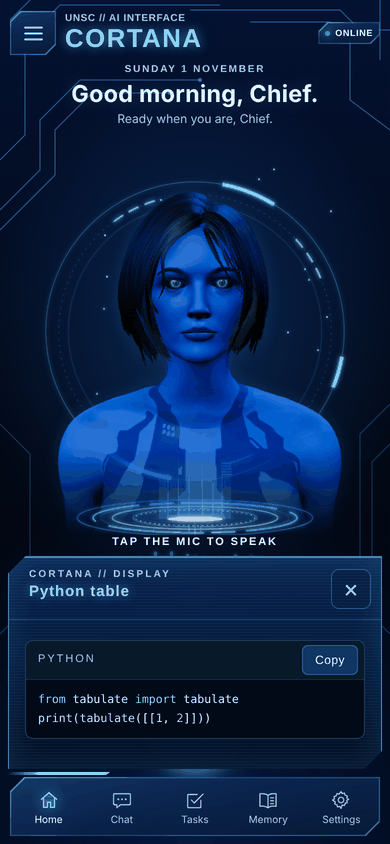
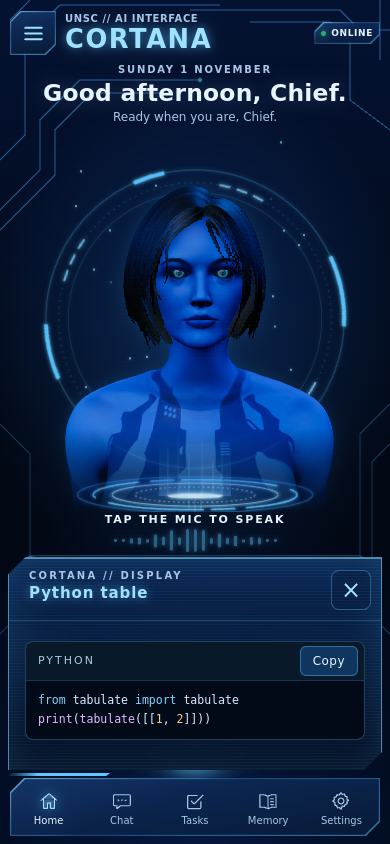
Document verified 1.5.0 release and refresh interface screenshots

diff --git a/docs/STATUS.md b/docs/STATUS.md
@@ -4,13 +4,20 @@ _Last updated: 1 November 2026._
 
 ## 1.5 current verification
 
[1 lines of base64/hex data omitted]
+
+Screenshots were refreshed from the actual interface using demo data and silent test speech. They are not evidence of subjective voice quality.
+
 Repository metadata currently reports **public**. The docs previously described it as private; visibility was not changed by this release.
 
 - Recovered source: 80 offline tests passed on Linux; JavaScript syntax checks passed.
 - Recovered implementation re-tested: browser layout passed at 320×568, 360×640, 390×844, 430×932, 844×390, 1280×900; saved chat and memory edit passed, no page errors.
 - Actual CPU reference speech produced 24 kHz audio and 11/30 Rhubarb mouth cues in two test sentences. One sentence skipped the name Cortana. Warm long-sentence render was 7.36 s; cold shorter render including model load was 31.21 s. These are observations, not guarantees.
 - A separately generated Piper “Hey Cortana” sample triggered the small keyword detector; an unrelated reference sentence did not.
-- Windows rebuilt-exe speech/alignment/cancellation, native keyword checks and real 4B/9B context regression are release gates; pending until their Actions run succeeds.
+- Windows build and packaged smoke passed: real reference speech (24 kHz, 22 mouth cues), Windows fallback, cancelled speech rejection, page/scripts/GLB/model catalogue/PDF parsing. Native keyword tests: “Hey Cortana…” detected; “curtains…” and “Hey Montana…” rejected. Notification subprocess returned success; visible delivery still needs a desktop.
+- Windows offline suite: 80 run, 79 passed and one expected Windows skip (the non-Windows PC-access error test). Linux: all 80 passed.
+- Final browser checks passed on GitHub, including the actual expressive forearm movement and Normal reset, saved chat restoration, memory editing and no JavaScript page errors.
+- Real `qwen3.5:4b`: 6/6 context regressions passed (timer, remember, code display, clock reminder, joke, old-fact recall). The cold `9b` CPU check exceeded the original 180-second transport timeout; the test harness now allows 900 seconds and refuses fallback. Final `qwen3.5:9b` result: **6/6 passed** with no fallback (same six cases as 4B). Cold first spoken response took about 242 seconds on the CPU runner; this is not a GPU performance measurement.
 - **[Unverified]** real microphone/speaker echo rejection, subjective voice/animation quality, visible Windows balloon delivery and phone microphone. Native synthesis may finish its current chunk after Stop.
 
 ## Previously verified (through 1.4)
@@ -37,7 +44,6 @@ Repository metadata currently reports **public**. The docs previously described 
 
 ## Not yet verified [Unverified]
 
-- The rebuilt `Cortana.exe` (build with the new modules, tzdata/dateutil bundling).
 - Piper on Windows: download, `--json-input` process, real speech quality and latency.
 - PC controls (Windows key events, `os.startfile`).
 - Tailscale mode (`tailscale serve --bg PORT`, Host header behaviour).
@@ -63,8 +69,8 @@ Repository metadata currently reports **public**. The docs previously described 
 
 1. Verify all [Unverified] items on Windows; fix what breaks.
 2. Train and install the owner's own Piper voice (voice trainer).
-3. Windows toast notifications for alerts when no page is open.
-4. Phoneme-accurate lip sync for Piper (alignment output).
+3. Check native reminder visibility with different Windows notification settings.
+4. Refine the estimated mouth poses and assess them against real speech.
 5. Streaming the Windows-voice fallback per sentence with lower latency.
-6. Custom "Hey Cortana" model (openWakeWord) to replace transcribe-every-burst.
+6. Validate the small keyword detector and playback echo rejection with real microphones.
 7. Optional: more abilities (music service, smart-home) behind the same allow-list rules.

diff --git a/docs/PROJECT.md b/docs/PROJECT.md
@@ -9,7 +9,7 @@ can be used from a phone, and feels fast, natural and genuinely useful.
 
 1. **Private by default.** AI, speech, voice and memory stay on the PC. Network use only for abilities the user invokes.
 2. **Never break trust.** No silent actions on the PC beyond a fixed allow-list; no secrets exposed; honest about uncertainty.
-3. **Feels alive.** Streaming speech, lip sync, a responsive hologram, under ~1 s to first spoken word on the target PC.
+3. **Feels alive.** Streaming speech, lip sync, a responsive hologram, a fast first spoken word on the target PC (the experimental reference voice prioritises similarity and does not meet a one-second target).
 4. **Works for a non-programmer.** One `.exe`, automatic downloads, plain-English errors, sensible defaults.
 5. **Hard to break.** Small modules, contracts, tests, and AGENTS.md rules so humans and AI agents can extend it safely.
 
@@ -21,7 +21,7 @@ Windows 10/11 · NVIDIA RTX 3070 (8 GB) class GPU · 16 GB RAM · Chrome/Edge ·
 
 - Cloud AI or accounts. (A user may point `CORTANA_OLLAMA_URL` elsewhere, but it isn't supported.)
 - Running arbitrary commands, reading files, or controlling apps beyond the allow-list.
-- Cloning anyone's voice without consent, or distributing Halo/Microsoft assets.
+- General-purpose voice cloning or adding unrelated recordings. The owner-requested 1.5 reference profile exception is scoped in AGENTS.md §16 and D-028.
 - macOS/Linux builds (the test suite runs there; the app's Windows features don't).
 - Multi-user accounts. One PC, one owner; the phone is a paired screen.
 
